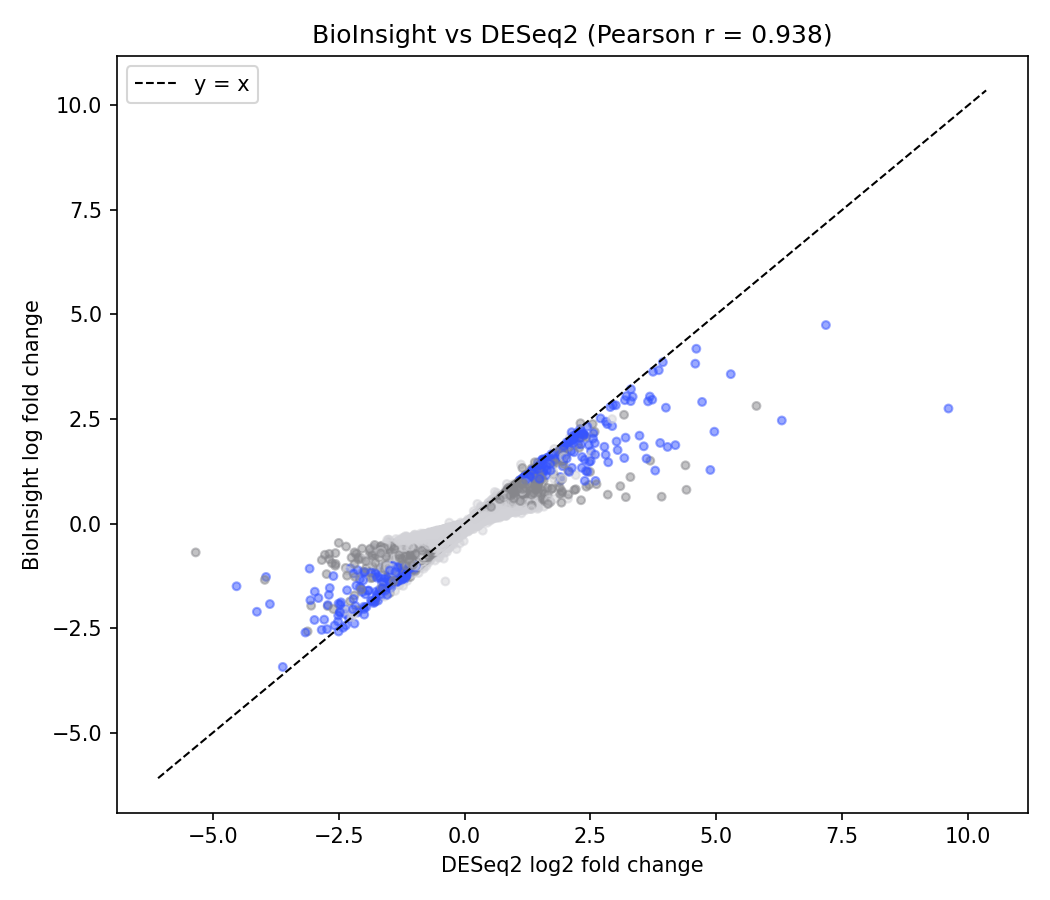
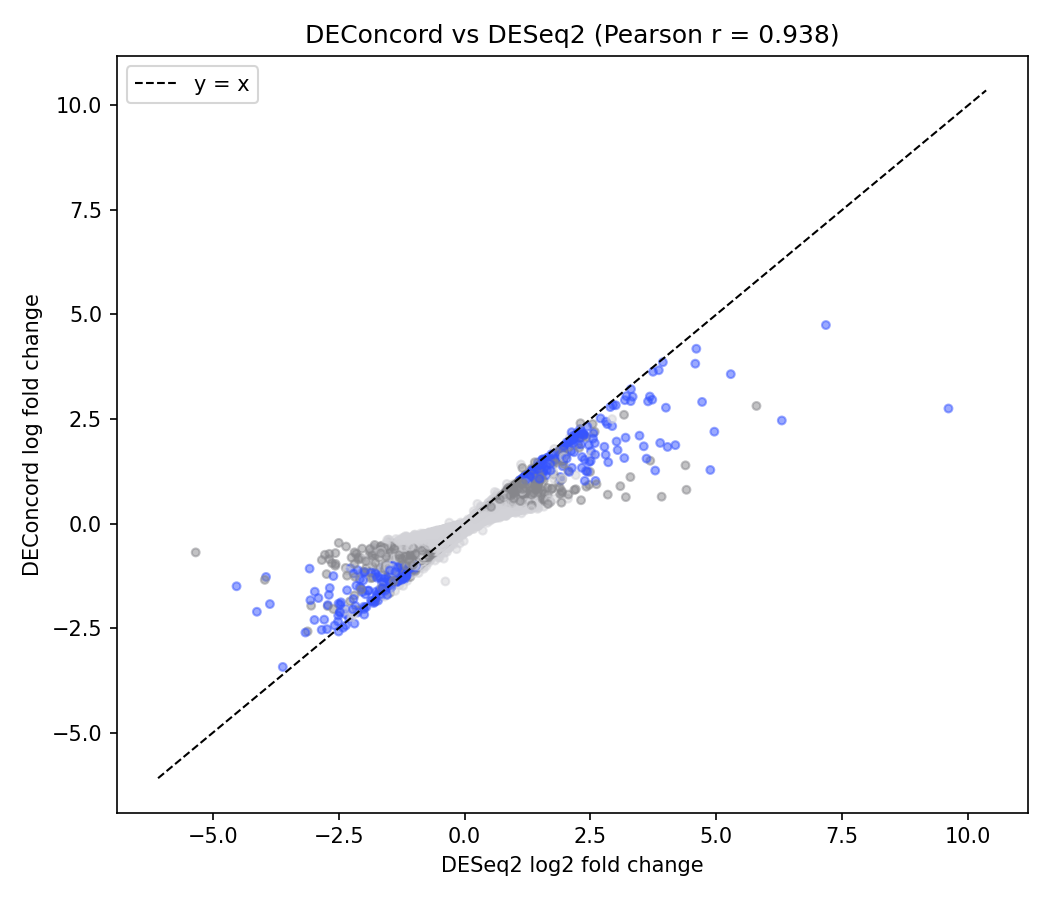
Regenerate benchmark scatter plots with correct DEConcord branding
The docs/assets/benchmark-deseq2.png and benchmark-edger.png images shown
on the website had 'BioInsight' baked into the matplotlib title and y-axis
label as pixel text, leftover from before the BioInsight -> OmicForge ->
DEConcord renames. compare_results.py itself already said DEConcord (fixed
in an earlier pass); only the previously-generated, still-committed images
hadn't been regenerated since. DEVLOG's Aug 12 entry called this out
explicitly at the time ('a rerun would fix it, not worth doing just for a
label') -- this is that rerun.

Reran benchmarks/compare_results.py for all four dataset/method
combinations (airway/pasilla x welch/moderated) against the real,
already-committed airway/pasilla count matrices and DESeq2/edgeR results.
Every summary statistic (significant gene counts, Pearson r, precision,
recall) is byte-identical to what was already committed -- this is a
relabeling of real output, not a new result. Copied the airway/welch pair
into docs/assets/ (the only two actually shown on the site); the other
three combinations' images and .md summaries were also regenerated in
benchmarks/results/ for the same reason, so the whole directory is
consistent instead of half-fixed.

Full pytest (247 passed) and ruff clean.

Changed region(s): [[0.0, 0.3422, 0.061, 0.6533], [0.2743, 0.0311, 0.7924, 0.0622]]

diff --git a/benchmarks/results/comparison_summary_pasilla_moderated.md b/benchmarks/results/comparison_summary_pasilla_moderated.md
@@ -1,9 +1,9 @@
-# BioInsight (moderated) vs DESeq2 / edgeR — pasilla dataset
+# DEConcord (moderated) vs DESeq2 / edgeR — pasilla dataset
 
 Real numbers from a real run. See `benchmarks/README.md` for methodology and honest caveats before reading anything into these on their own.
 
 ```
-          comparison  genes_in_common  pearson_r_lfc  spearman_r_lfc  bioinsight_significant  other_significant  significant_in_both  jaccard_index  precision_vs_other  recall_vs_other
-BioInsight vs DESeq2             7920          0.974           0.991                     146                837                  146          0.174                 1.0            0.174
- BioInsight vs edgeR             7872          0.975           0.988                     146                680                  146          0.215                 1.0            0.215
+         comparison  genes_in_common  pearson_r_lfc  spearman_r_lfc  deconcord_significant  other_significant  significant_in_both  jaccard_index  precision_vs_other  recall_vs_other
+DEConcord vs DESeq2             7920          0.974           0.991                    146                837                  146          0.174                 1.0            0.174
+ DEConcord vs edgeR             7872          0.975           0.988                    146                680                  146          0.215                 1.0            0.215
 ```

diff --git a/benchmarks/results/comparison_summary_moderated.md b/benchmarks/results/comparison_summary_moderated.md
@@ -1,9 +1,9 @@
-# BioInsight (moderated) vs DESeq2 / edgeR — airway dataset
+# DEConcord (moderated) vs DESeq2 / edgeR — airway dataset
 
 Real numbers from a real run. See `benchmarks/README.md` for methodology and honest caveats before reading anything into these on their own.
 
 ```
-          comparison  genes_in_common  pearson_r_lfc  spearman_r_lfc  bioinsight_significant  other_significant  significant_in_both  jaccard_index  precision_vs_other  recall_vs_other
-BioInsight vs DESeq2            16139          0.938           0.982                     431               2618                  431          0.165                 1.0            0.165
- BioInsight vs edgeR            15890          0.947           0.983                     431               1990                  431          0.217                 1.0            0.217
+         comparison  genes_in_common  pearson_r_lfc  spearman_r_lfc  deconcord_significant  other_significant  significant_in_both  jaccard_index  precision_vs_other  recall_vs_other
+DEConcord vs DESeq2            16139          0.938           0.982                    431               2618                  431          0.165                 1.0            0.165
+ DEConcord vs edgeR            15890          0.947           0.983                    431               1990                  431          0.217                 1.0            0.217
 ```

diff --git a/benchmarks/results/comparison_summary_pasilla.md b/benchmarks/results/comparison_summary_pasilla.md
@@ -1,9 +1,9 @@
-# BioInsight (welch) vs DESeq2 / edgeR — pasilla dataset
+# DEConcord (welch) vs DESeq2 / edgeR — pasilla dataset
 
 Real numbers from a real run. See `benchmarks/README.md` for methodology and honest caveats before reading anything into these on their own.
 
 ```
-          comparison  genes_in_common  pearson_r_lfc  spearman_r_lfc  bioinsight_significant  other_significant  significant_in_both  jaccard_index  precision_vs_other  recall_vs_other
-BioInsight vs DESeq2             7920          0.974           0.991                      71                837                   71          0.085                 1.0            0.085
- BioInsight vs edgeR             7872          0.975           0.988                      71                680                   71          0.104                 1.0            0.104
+         comparison  genes_in_common  pearson_r_lfc  spearman_r_lfc  deconcord_significant  other_significant  significant_in_both  jaccard_index  precision_vs_other  recall_vs_other
+DEConcord vs DESeq2             7920          0.974           0.991                     71                837                   71          0.085                 1.0            0.085
+ DEConcord vs edgeR             7872          0.975           0.988                     71                680                   71          0.104                 1.0            0.104
 ```

diff --git a/benchmarks/results/comparison_summary.md b/benchmarks/results/comparison_summary.md
@@ -1,9 +1,9 @@
-# BioInsight (welch) vs DESeq2 / edgeR — airway dataset
+# DEConcord (welch) vs DESeq2 / edgeR — airway dataset
 
 Real numbers from a real run. See `benchmarks/README.md` for methodology and honest caveats before reading anything into these on their own.
 
 ```
-          comparison  genes_in_common  pearson_r_lfc  spearman_r_lfc  bioinsight_significant  other_significant  significant_in_both  jaccard_index  precision_vs_other  recall_vs_other
-BioInsight vs DESeq2            16139          0.938           0.982                     196               2618                  196          0.075                 1.0            0.075
- BioInsight vs edgeR            15890          0.947           0.983                     196               1990                  196          0.098                 1.0            0.098
+         comparison  genes_in_common  pearson_r_lfc  spearman_r_lfc  deconcord_significant  other_significant  significant_in_both  jaccard_index  precision_vs_other  recall_vs_other
+DEConcord vs DESeq2            16139          0.938           0.982                    196               2618                  196          0.075                 1.0            0.075
+ DEConcord vs edgeR            15890          0.947           0.983                    196               1990                  196          0.098                 1.0            0.098
 ```
